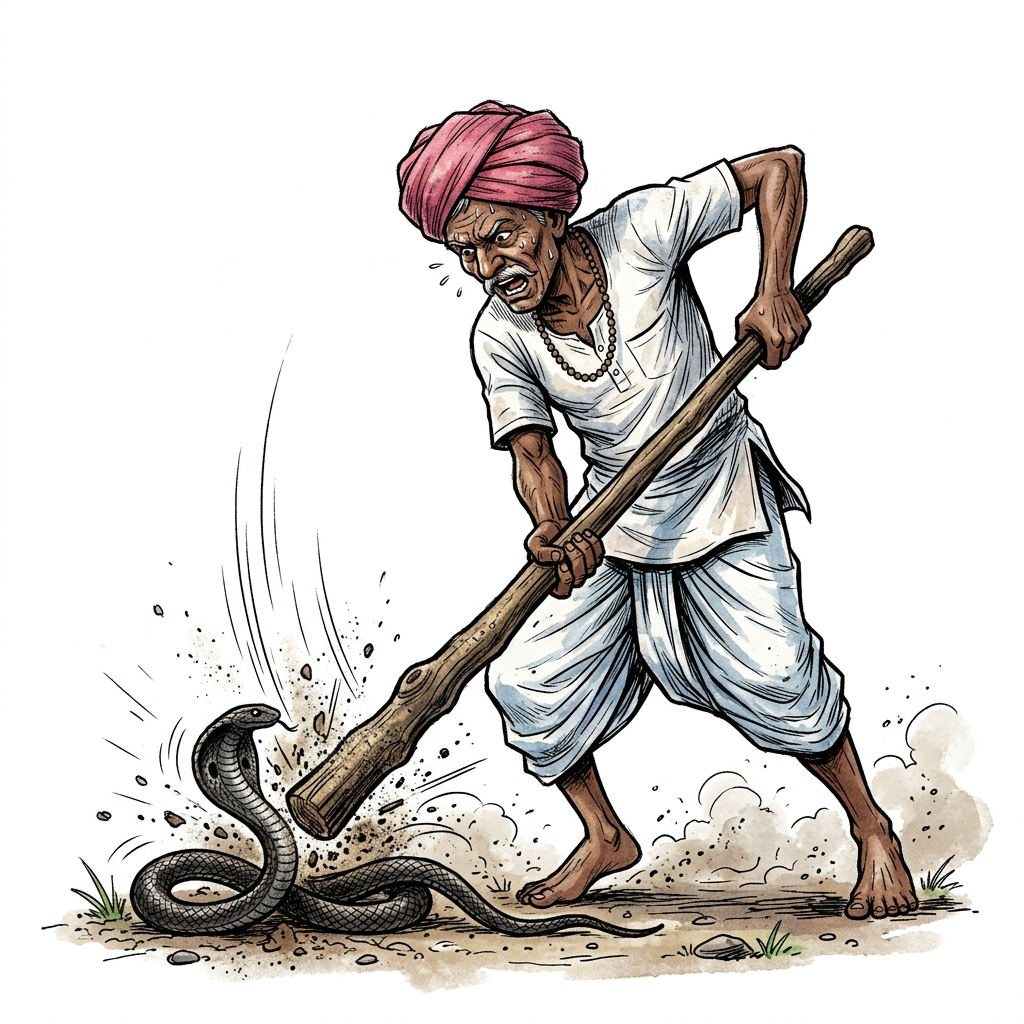
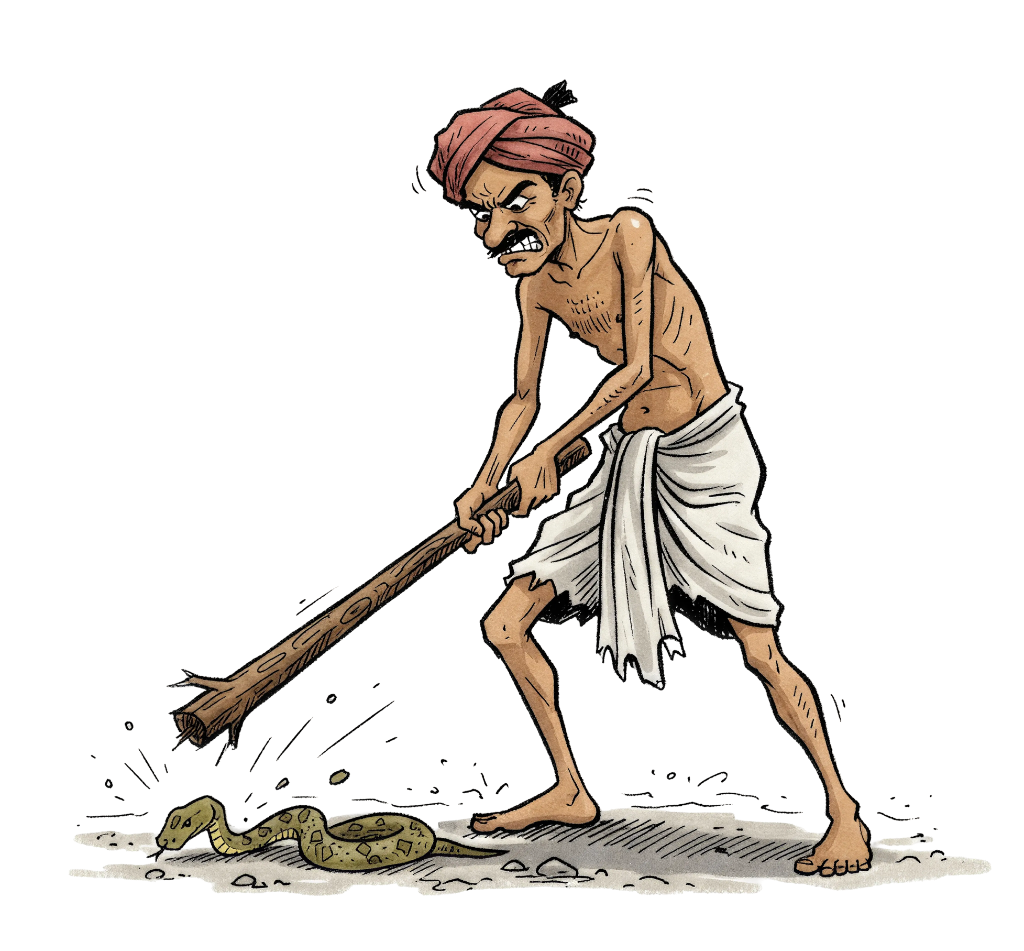
Add Key Impact Statistics section with high-res editorial illustrations and scroll reveal animations below the interactive map

diff --git a/index.html b/index.html
@@ -75,6 +75,47 @@
             </div>
         </section>
 
+        <!-- Section 2: Key Impact Statistics & Editorial Illustrations -->
+        <section class="story-section impact-stats-section" id="section-impact-stats">
+            <div class="section-container stats-container">
+                
+                <!-- Stat Block 1: Top Center Callout -->
+                <div class="stat-block stat-block-center reveal-on-scroll">
+                    <h3 class="stat-number-title">
+                        <span class="text-highlight-red">1 in 2 global snakebite</span>
+                    </h3>
+                    <p class="stat-subtext">deaths occurs in India.</p>
+                </div>
+
+                <!-- Stat Block 2: Left Image, Right Stat -->
+                <div class="stat-grid-row reveal-on-scroll">
+                    <div class="stat-media-col">
+                        <img src="assets/victim_illustration.jpg" alt="Illustration of snakebite victim lying on the ground" class="stat-illustration-img">
+                    </div>
+                    <div class="stat-content-col">
+                        <h3 class="stat-number-title">
+                            <span class="text-highlight-red">58,000 lives</span>
+                        </h3>
+                        <p class="stat-subtext">lost every year</p>
+                    </div>
+                </div>
+
+                <!-- Stat Block 3: Left Stat, Right Image -->
+                <div class="stat-grid-row stat-grid-reverse reveal-on-scroll">
+                    <div class="stat-content-col">
+                        <h3 class="stat-number-title">
+                            <span class="text-highlight-red">6 deaths</span>
+                        </h3>
+                        <p class="stat-subtext">every single hour.</p>
+                    </div>
+                    <div class="stat-media-col">
+                        <img src="assets/ghost_clock_illustration.jpg" alt="Illustration of broken clock with 6 ghosts floating out and an hourglass" class="stat-illustration-img">
+                    </div>
+                </div>
+
+            </div>
+        </section>
+
     </main>
 
     <!-- Footer -->

diff --git a/style.css b/style.css
@@ -271,6 +271,104 @@ body {
     color: var(--text-secondary);
 }
 
+/* ==========================================================================
+   SECTION 2: KEY IMPACT STATISTICS & ILLUSTRATIONS
+   ========================================================================== */
+
+.impact-stats-section {
+    padding: 5rem 0 6rem;
+    background-color: var(--bg-main);
+}
+
+.stats-container {
+    max-width: 920px;
+    margin: 0 auto;
+    display: flex;
+    flex-direction: column;
+    gap: 4.5rem;
+}
+
+/* Center Stat Block */
+.stat-block-center {
+    text-align: center;
+    padding: 1rem 0;
+}
+
+.stat-number-title {
+    font-family: var(--font-primary);
+    font-size: clamp(2.4rem, 5.2vw, 3.8rem);
+    font-weight: 800;
+    line-height: 1.1;
+    letter-spacing: -0.03em;
+}
+
+.stat-subtext {
+    font-family: var(--font-primary);
+    font-size: clamp(1.25rem, 2.5vw, 1.8rem);
+    font-weight: 400;
+    color: #2D3136;
+    margin-top: 0.35rem;
+    line-height: 1.35;
+}
+
+/* Stat Grid Rows (2-Column Alternating) */
+.stat-grid-row {
+    display: flex;
+    align-items: center;
+    justify-content: space-between;
+    gap: 3.5rem;
+}
+
+.stat-grid-reverse {
+    flex-direction: row;
+}
+
+.stat-media-col {
+    flex: 1;
+    max-width: 440px;
+    display: flex;
+    justify-content: center;
+    align-items: center;
+}
+
+.stat-content-col {
+    flex: 1;
+    max-width: 440px;
+    display: flex;
+    flex-direction: column;
+    justify-content: center;
+}
+
+.stat-illustration-img {
+    width: 100%;
+    height: auto;
+    max-height: 320px;
+    object-fit: contain;
+    display: block;
+    filter: drop-shadow(0 8px 24px rgba(0,0,0,0.03));
+}
+
+/* Responsive Grid Adaptation */
+@media (max-width: 768px) {
+    .stats-container {
+        gap: 3.5rem;
+    }
+
+    .stat-grid-row, .stat-grid-reverse {
+        flex-direction: column;
+        text-align: center;
+        gap: 1.5rem;
+    }
+
+    .stat-content-col {
+        align-items: center;
+    }
+
+    .stat-illustration-img {
+        max-height: 250px;
+    }
+}
+
 /* Scroll Animation Utility */
 .reveal-on-scroll {
     opacity: 0;

diff --git a/script.js b/script.js
@@ -29,11 +29,10 @@ function initScrollAnimations() {
 
     // Elements to animate on scroll
     const animatedElements = document.querySelectorAll(
-        '.fact-callout-wrapper, .story-section, .hero-content'
+        '.reveal-on-scroll, .story-section, .hero-content'
     );
 
     animatedElements.forEach(el => {
-        el.classList.add('reveal-on-scroll');
         revealObserver.observe(el);
     });
 }
